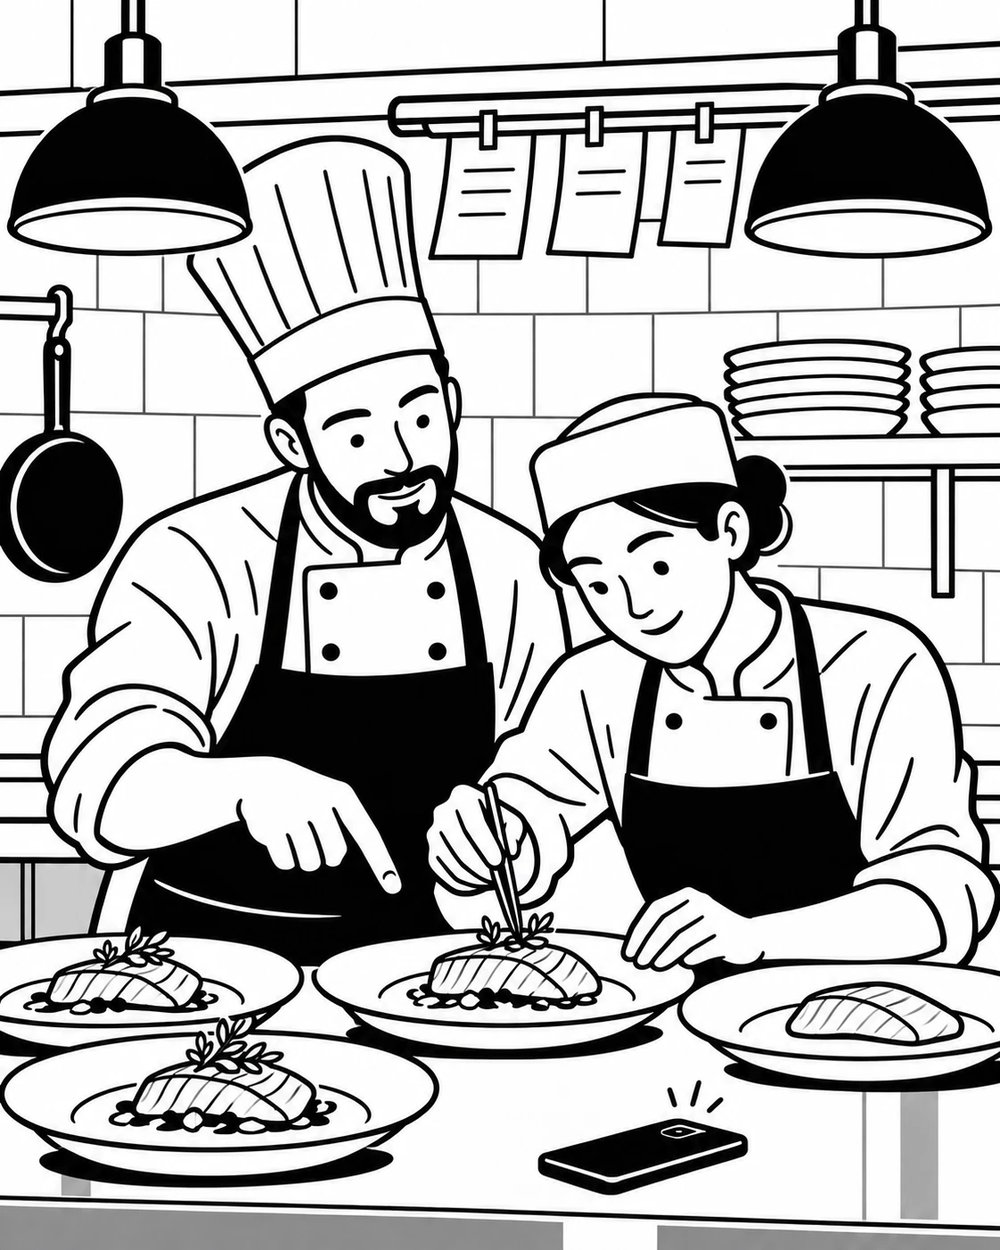
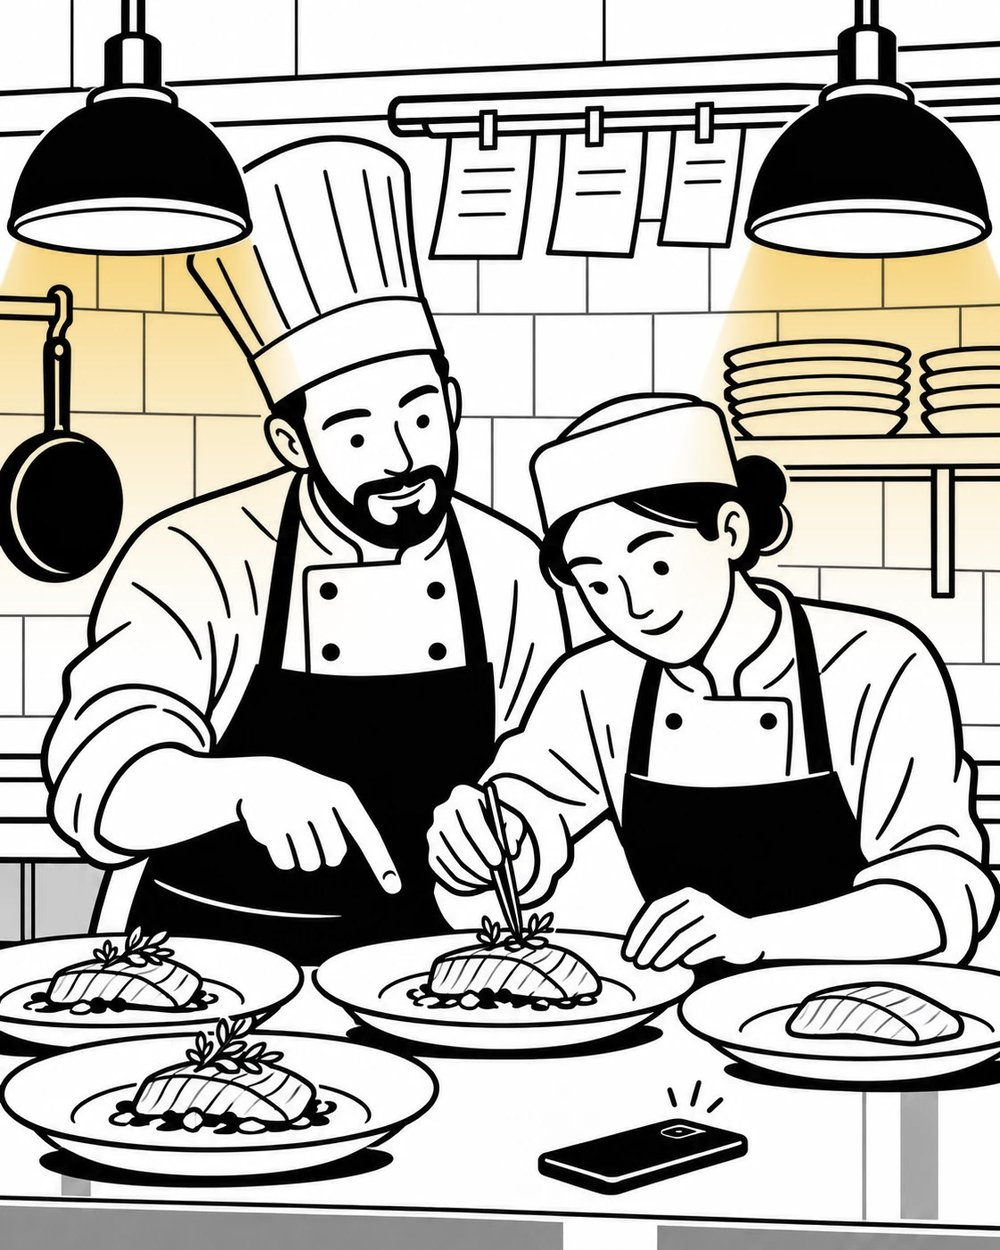
Slide 12: warm light from the two lamps in the drawing
The light is added on top of the original drawing: two cones that start
along each lamp's rim and fade out above the chefs' arms. Nothing is
redrawn, and the blacks stay black. The black-and-white original is kept
as vision-plating-bw.jpg.

Claude-Session: https://claude.ai/code/session_01Pii9GGbCumHueuQQtWpTAY

Changed region(s): [[0.682, 0.1872, 1.0, 0.4368], [0.0, 0.1872, 0.31, 0.4368]]

diff --git a/deck/index.html b/deck/index.html
@@ -342,7 +342,7 @@
 
   <!-- 12 · Where this is heading (the closing slide) -->
   <section class="slide s-vision">
-    <img class="scene" src="../assets/places/vision-plating.jpg?v=1" alt="Two chefs plate salmon together, the head chef showing the assistant chef where the garnish goes, while a phone lies face down on the counter, line drawing">
+    <img class="scene" src="../assets/places/vision-plating.jpg?v=2" alt="Two chefs plate salmon together, the head chef showing the assistant chef where the garnish goes, while a phone lies face down on the counter, line drawing">
     <div class="text">
       <p class="eyebrow">Vision</p>
       <h2>Trust earns the next step.</h2>
